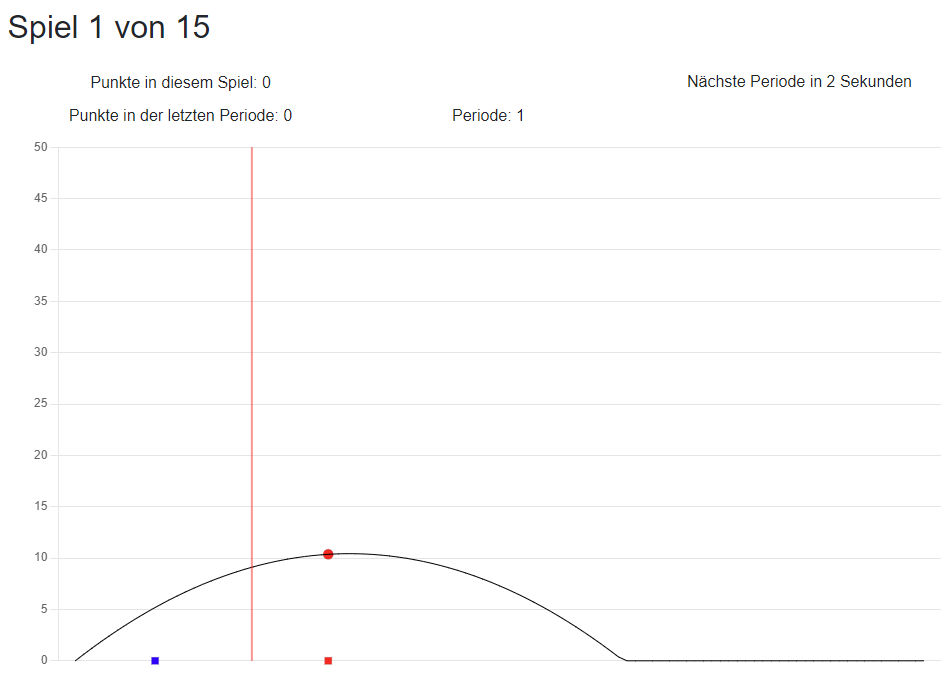
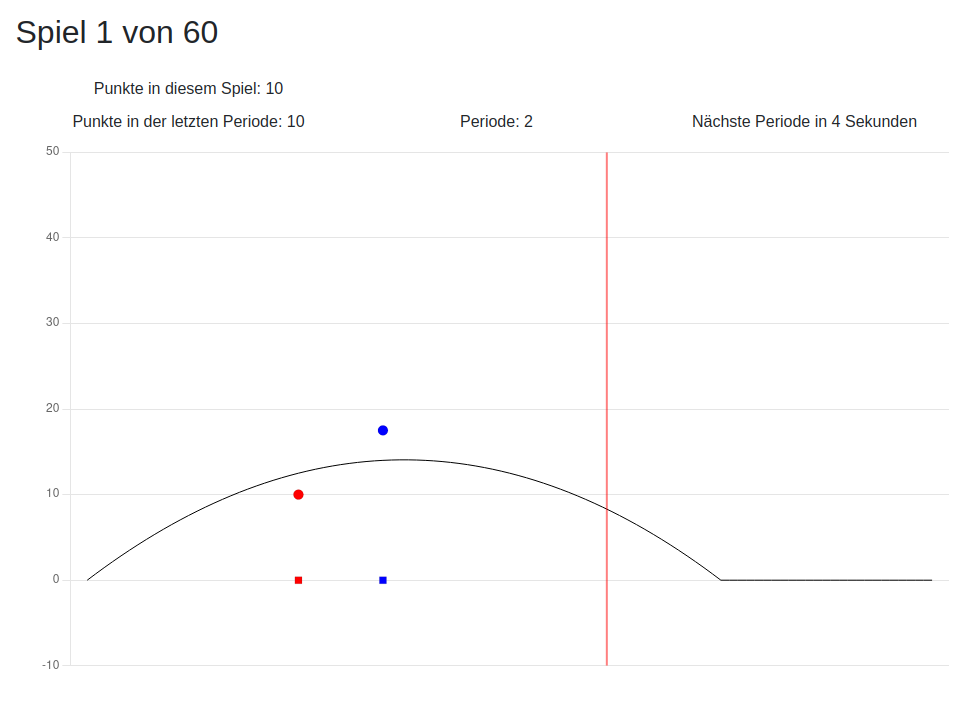
update to 5.10, instructions and pilot prep

diff --git a/evolving_managers/Instructions.html b/evolving_managers/Instructions.html
@@ -1,5 +1,5 @@
 {{ block title }}
-    Anleitung
+    Anleitung Teil 1
 {{ endblock }}
 {{ block content }}
 
@@ -30,7 +30,9 @@
 </h5>
 
 <p>
-    Dieses Experiment besteht aus {{ num_rounds }} Spielen.
+    Dieses Experiment besteht aus zwei Teilen.
+    Die Bezahlung der beiden Teile ist voneinander unabhängig. 
+    Dieser Teil besteht aus {{ num_rounds }} Spielen.
     In jedem Spiel werden Sie vom Computer anonym mit einem anderen zufälligen Mitspieler gematcht.
     Jedes Spiel wird dabei in {{ num_periods }} Perioden unterteilt.
     In jeder Periode werden Sie und Ihr Mitspieler geheim Aktionen auswählen. 
@@ -55,8 +57,11 @@
 <p>
     Die folgende Abbildung zeigt das Computerdisplay, mit dem Sie Entscheidungen treffen und mit Ihrem Mitspieler interagieren werden. 
 </p>
+{{ if joint_payoff_info and relative_payoff_info }}
 
-{{ if joint_payoff_info }}
+<img src={{ static 'interface_joint_rel.png' }}>
+
+{{ elif joint_payoff_info and not relative_payoff_info }}
 
 <img src={{ static 'interface_joint.png' }}>
 
@@ -75,7 +80,28 @@
     Ihre tatsächliche Aktion für die gesamte Periode wird ausschließlich durch die Position der roten Linie <b>am Ende der Periode</b> festgelegt.
 </p>
 
-<p>
+<ul>
+    <li>Nachdem eine Periode vergangen ist, werden Sie ein <b>rotes Quadrat</b> sehen, das <b>Ihre Aktion</b> in der vergangenen Periode anzeigt.
+        Über diesem Punkt sehen Sie ein einen <b>roten Punkt</b>, der <b>Ihre Punkte</b> in der vergangenen Periode anzeigt. Je höher der Punkt, desto mehr Punkte haben Sie gewonnen. </li>
+    <li>Die genaue Anzahl der Punkte, die Sie in diesem Spiel und in der vergangenen Periode verdient haben, können Sie am oberen Bildschirmrand sehen.</li>
+    <li>Gleichzeitig werden Sie am unteren Rand des Bildschirms ein <b>blaues Quadrat</b> sehen, das die <b>Aktion Ihres Mitspielers</b> in der vergangenen Periode anzeigt. </li>
+    {{ if joint_payoff_info }} <li>Über diesem Punkt sehen Sie einen <b>blauen Punkt</b>, der die <b>Punkte Ihres Mitspielers</b> in der vergangenen Periode anzeigt.</li>
+    {{ endif }}
+    <li>Schließlich werden Sie eine schwarze Linie sehen, die Ihnen anzeigt, wie viele Punkte Sie an jeder Position Ihres Schiebereglers verdienen hätten können, 
+        je nachdem welche Aktion ihr Mitspieler in der vergangenen Periode gewählt hat.</li>
+    {{ if joint_payoff_info }} <li>Zusätzlich werden sie eine schwarze gestrichelte Linie sehen, die Ihnen anzeigt, wie viele Punkte <b>Sie und Ihr Mitspieler gemeinsam</b> an jeder Position Ihres Schiebereglers 
+        verdienen hätten können, je nachdem welche Aktion ihr Mitspieler in der vergangenen Periode gewählt hat. 
+        Der schwarze Punkt zeigt an, wie viele Punkte Sie und Ihr Mitspieler in der vergangenen Periode insgesamt verdient haben.</li>
+    {{ endif }}
+    {{ if relative_payoff_info }} <li>Darunter werden sie eine schwarze gepunktete Linie sehen, die Ihnen anzeigt, wie groß der absolute Punkteunterschied <b>zwischen Ihnen und Ihrem Mitspieler</b> 
+        an jeder Position Ihres Schiebereglers sein hätte können, je nachdem welche Aktion ihr Mitspieler in der vergangenen Periode gewählt hat. Je näher diese Linie an Null ist, desto geringer
+        ist der Unterschied zwischen den beiden Punkten.
+    </li>
+    {{ endif }}
+
+</ul>
+
+<!-- <p>
     Nachdem eine Periode vergangen ist, werden Sie ein <b>rotes Quadrat</b> sehen, das <b>Ihre Aktion</b> in der vergangenen Periode anzeigt.
     Über diesem Punkt sehen Sie ein einen <b>roten Punkt</b>, der <b>Ihre Punkte</b> in der vergangenen Periode anzeigt. 
     Je höher der Punkt, desto mehr Punkte haben Sie gewonnen. 
@@ -84,9 +110,11 @@
     {{ if joint_payoff_info }} Über diesem Punkt sehen Sie einen <b>blauen Punkt</b>, der die <b>Punkte Ihres Mitspielers</b> in der vergangenen Periode anzeigt.
     {{ endif }}
     Schließlich werden Sie eine schwarze Linie sehen, die Ihnen anzeigt, wie viele Punkte Sie an jeder Position Ihres Schiebereglers verdienen hätten können, je nachdem welche Aktion ihr Mitspieler in der vergangenen Periode gewählt hat.
-    {{ if joint_payoff_info }} Zusätzlich werden sie eine schwarze gestrichelte Linie sehen, die Ihnen anzeigt, wie viele Punkte <b>Sie und Ihr Mitspieler gemeinsam</b> dan jeder Position Ihres Schiebereglers verdienen hätten können, je nachdem welche Aktion ihr Mitspieler in der vergangenen Periode gewählt hat. Der schwarze Punkt zeigt an, wie viele Punkte Sie und Ihr Mitspieler in der vergangenen Periode insgesamt verdient haben.
+    {{ if joint_payoff_info }} Zusätzlich werden sie eine schwarze gestrichelte Linie sehen, die Ihnen anzeigt, wie viele Punkte <b>Sie und Ihr Mitspieler gemeinsam</b> an jeder Position Ihres Schiebereglers verdienen hätten können, je nachdem welche Aktion ihr Mitspieler in der vergangenen Periode gewählt hat. Der schwarze Punkt zeigt an, wie viele Punkte Sie und Ihr Mitspieler in der vergangenen Periode insgesamt verdient haben.
     {{ endif }}
-</p>
+    {{ if relative_payoff_info }} Darunter werden sie eine schwarze gepunktete Linie sehen, die Ihnen anzeigt, wie groß der Punkteunterschied <b>zwischen Ihnen umd Ihrem Mitspieler</b> an jeder Position Ihres Schiebereglers verdienen hätten können, je nachdem welche Aktion ihr Mitspieler in der vergangenen Periode gewählt hat. Der schwarze Punkt zeigt an, wie viele Punkte Sie und Ihr Mitspieler in der vergangenen Periode insgesamt verdient haben.
+    {{ endif }}
+</p> -->
 
 <p>
     Es ist wichtig, dass Sie sich bewusst sind, dass alle Informationen stets die Ergebnisse der vergangenen Periode darstellen. 
@@ -104,6 +132,7 @@
     Für {{ conversion_rate }} Punkte werden Sie 1 Euro erhalten. 
     Ihre Punkte werden sich im Laufe des Experiments ansammeln. Ihre bisher verdienten Punkte werden Ihnen nach jedem Spiel angezeigt.     
     Zusätzlich erhalten Sie {{ participation_fee }} für die Teilnahme an diesem Experiment. 
+    Die Bezahlung der beiden Teile ist voneinander unabhängig. 
 </p>
 
 <p>

diff --git a/evolving_managers/InstructionsPart2.html b/evolving_managers/InstructionsPart2.html
@@ -1,0 +1,41 @@
+{{ block title }}
+    Anleitung Teil 2
+{{ endblock }}
+{{ block content }}
+
+<h5>
+    Willkommen zu Teil 2
+</h5>
+
+<p>
+    Dieser Teil besteht aus {{ num_rounds }} Spielen. 
+    In diesem Teil werden Sie das gleiche Spiel wie in Teil 1 spielen, aber das Spiel beginnt mit einer anderen Anfangssituation. 
+</p>
+
+<p>
+    Ihre Punkte werden auf die gleiche Weise wie in Teil 1 berechnet. Es gelten die gleichen Hinweise wie in Teil 1:
+</p>
+
+<ul>
+    <li>Ihre Punkte in jeder Periode hängen einzig und allein von Ihrer Aktion und der Aktion Ihres Mitspielers ab.</li>
+    <li>Die Funktion, die Ihre Punkte bestimmt, wird sich während eines Spiels nicht verändern. </li>
+    <li>Wenn Sie und Ihr Mitspieler während eines Spiels die gleichen Aktionen zu den Zeitpunkten A und B wählen, werden Sie beide den gleichen Gewinn zu Zeitpunkt A wie zu Zeitpunkt B machen.</li>
+    <li>Zwischen den Spielen kann sich die Funktion ändern.</li>
+</ul>
+
+
+<div>
+    <button id="next_button" class="btn btn-primary btn-large" hidden>Weiter</button>
+</div>
+
+{{ endblock }}
+
+
+{{ block scripts }}
+<script>
+    const button = document.getElementById('next_button');
+    setTimeout(function() {
+        button.removeAttribute('hidden');
+        }, 2000);
+</script>
+{{ endblock }}

diff --git a/evolving_managers/Decision.html b/evolving_managers/Decision.html
@@ -1,5 +1,5 @@
 {{ block title }}
-    Spiel {{ subsession.round_number }} von {{ C.NUM_ROUNDS }}
+    Spiel {{ subsession.round_number }} von {{ max_rounds }}
 {{ endblock }}
 
 {{ block content }}

diff --git a/evolving_managers/test-high-frequency.js b/evolving_managers/test-high-frequency.js
@@ -1,3 +1,5 @@
+// load up decision.html and copy/paste this code into the browser console
+
 js_vars.confidence = 1.1;
 js_vars.partner_confidence = 1.0;
 

diff --git a/evolving_managers/__init__.py b/evolving_managers/__init__.py
@@ -84,20 +84,45 @@ class Instructions(Page):
     def vars_for_template(player: Player):
         current_config = [config for config in player.participant.configs if config['start_supergame'] <= player.round_number and config['end_supergame'] >= player.round_number][0]
         return dict(
-            num_rounds = C.NUM_ROUNDS,
+            num_rounds = current_config['end_supergame'] - current_config['start_supergame'] + 1,
             num_periods = player.group.num_periods,
             period_length = round(player.mseconds_per_period/1000),
             conversion_rate = player.session.config['conversion_rate'],
             joint_payoff_info = player.joint_payoff_info,
             relative_payoff_info = player.relative_payoff_info,
             participation_fee = player.session.config['participation_fee'],
-            treatment = current_config['treatment']
+            treatment = current_config['treatment'],
             )
 
     def is_displayed(player):
         current_config = [config for config in player.participant.configs if config['start_supergame'] <= player.round_number and config['end_supergame'] >= player.round_number][0]
         # only show instructions page at the beginning of a new supergame and if we are not simulating
-        return player.session.config['simulation'] == False and player.subsession.round_number == current_config['start_supergame']
+        #return player.session.config['simulation'] == False and player.subsession.round_number == current_config['start_supergame'] # can be used to run different treatments with alternative instructions between-subjects
+        return player.session.config['simulation'] == False and player.subsession.round_number == 1
+
+
+# PAGES
+class InstructionsPart2(Page):
+    # on the instructions page send some data to the template: number of supergames, number of periods within each supergame, how long each period is (in seconds) and how many points convert to one Euro
+    # also, obviously, only display this page in the first supergame, and don't if we are running a simulation
+    @staticmethod
+    def vars_for_template(player: Player):
+        current_config = [config for config in player.participant.configs if config['start_supergame'] <= player.round_number and config['end_supergame'] >= player.round_number][0]
+        return dict(
+            num_rounds = current_config['end_supergame'] - current_config['start_supergame'] + 1,
+            num_periods = player.group.num_periods,
+            period_length = round(player.mseconds_per_period/1000),
+            conversion_rate = player.session.config['conversion_rate'],
+            joint_payoff_info = player.joint_payoff_info,
+            relative_payoff_info = player.relative_payoff_info,
+            participation_fee = player.session.config['participation_fee'],
+            treatment = current_config['treatment'],
+            )
+
+    def is_displayed(player):
+        current_config = [config for config in player.participant.configs if config['start_supergame'] <= player.round_number and config['end_supergame'] >= player.round_number][0]
+        # only show instructions page at the beginning of a new supergame, and if we are not simulating and not in the first round
+        return player.session.config['simulation'] == False and player.subsession.round_number == current_config['start_supergame'] and not player.round_number == 1
 
 
 class SetupWaitPage(WaitPage):
@@ -131,17 +156,19 @@ class SetupWaitPage(WaitPage):
 class Decision(Page):
     @staticmethod
     def vars_for_template(player: Player):
+        current_config = [config for config in player.participant.configs if config['start_supergame'] <= player.round_number and config['end_supergame'] >= player.round_number][0]
         # if we are in the first period, it is not incentivized, so simply return a period payoff of zero. 
         if player.period == 0:
             period_payoff = float(0)
+        # whenever the page is (re)loaded, the current period payoff and the cumulative payoff up to that period are sent to the page
         else:
             period_payoff = round(player.period_payoff,1)
 
-        # whenever the page is (re)loaded, the current period payoff and the cumulative payoff up to that period are sent to the page
         return dict(
             round_payoff = round(player.round_payoff,1),
             period_payoff = period_payoff,
-            period = player.group.period + 1
+            period = player.group.period + 1,
+            max_rounds = current_config['end_supergame'],
         )
 
     # just some variables for javascript
@@ -294,7 +321,7 @@ class Results(Page):
         )
 
 
-page_sequence = [Instructions, SetupWaitPage, Decision, ResultsWaitPage, Results]
+page_sequence = [Instructions, InstructionsPart2, SetupWaitPage, Decision, ResultsWaitPage, Results]
 
 
 # FUNCTIONS
